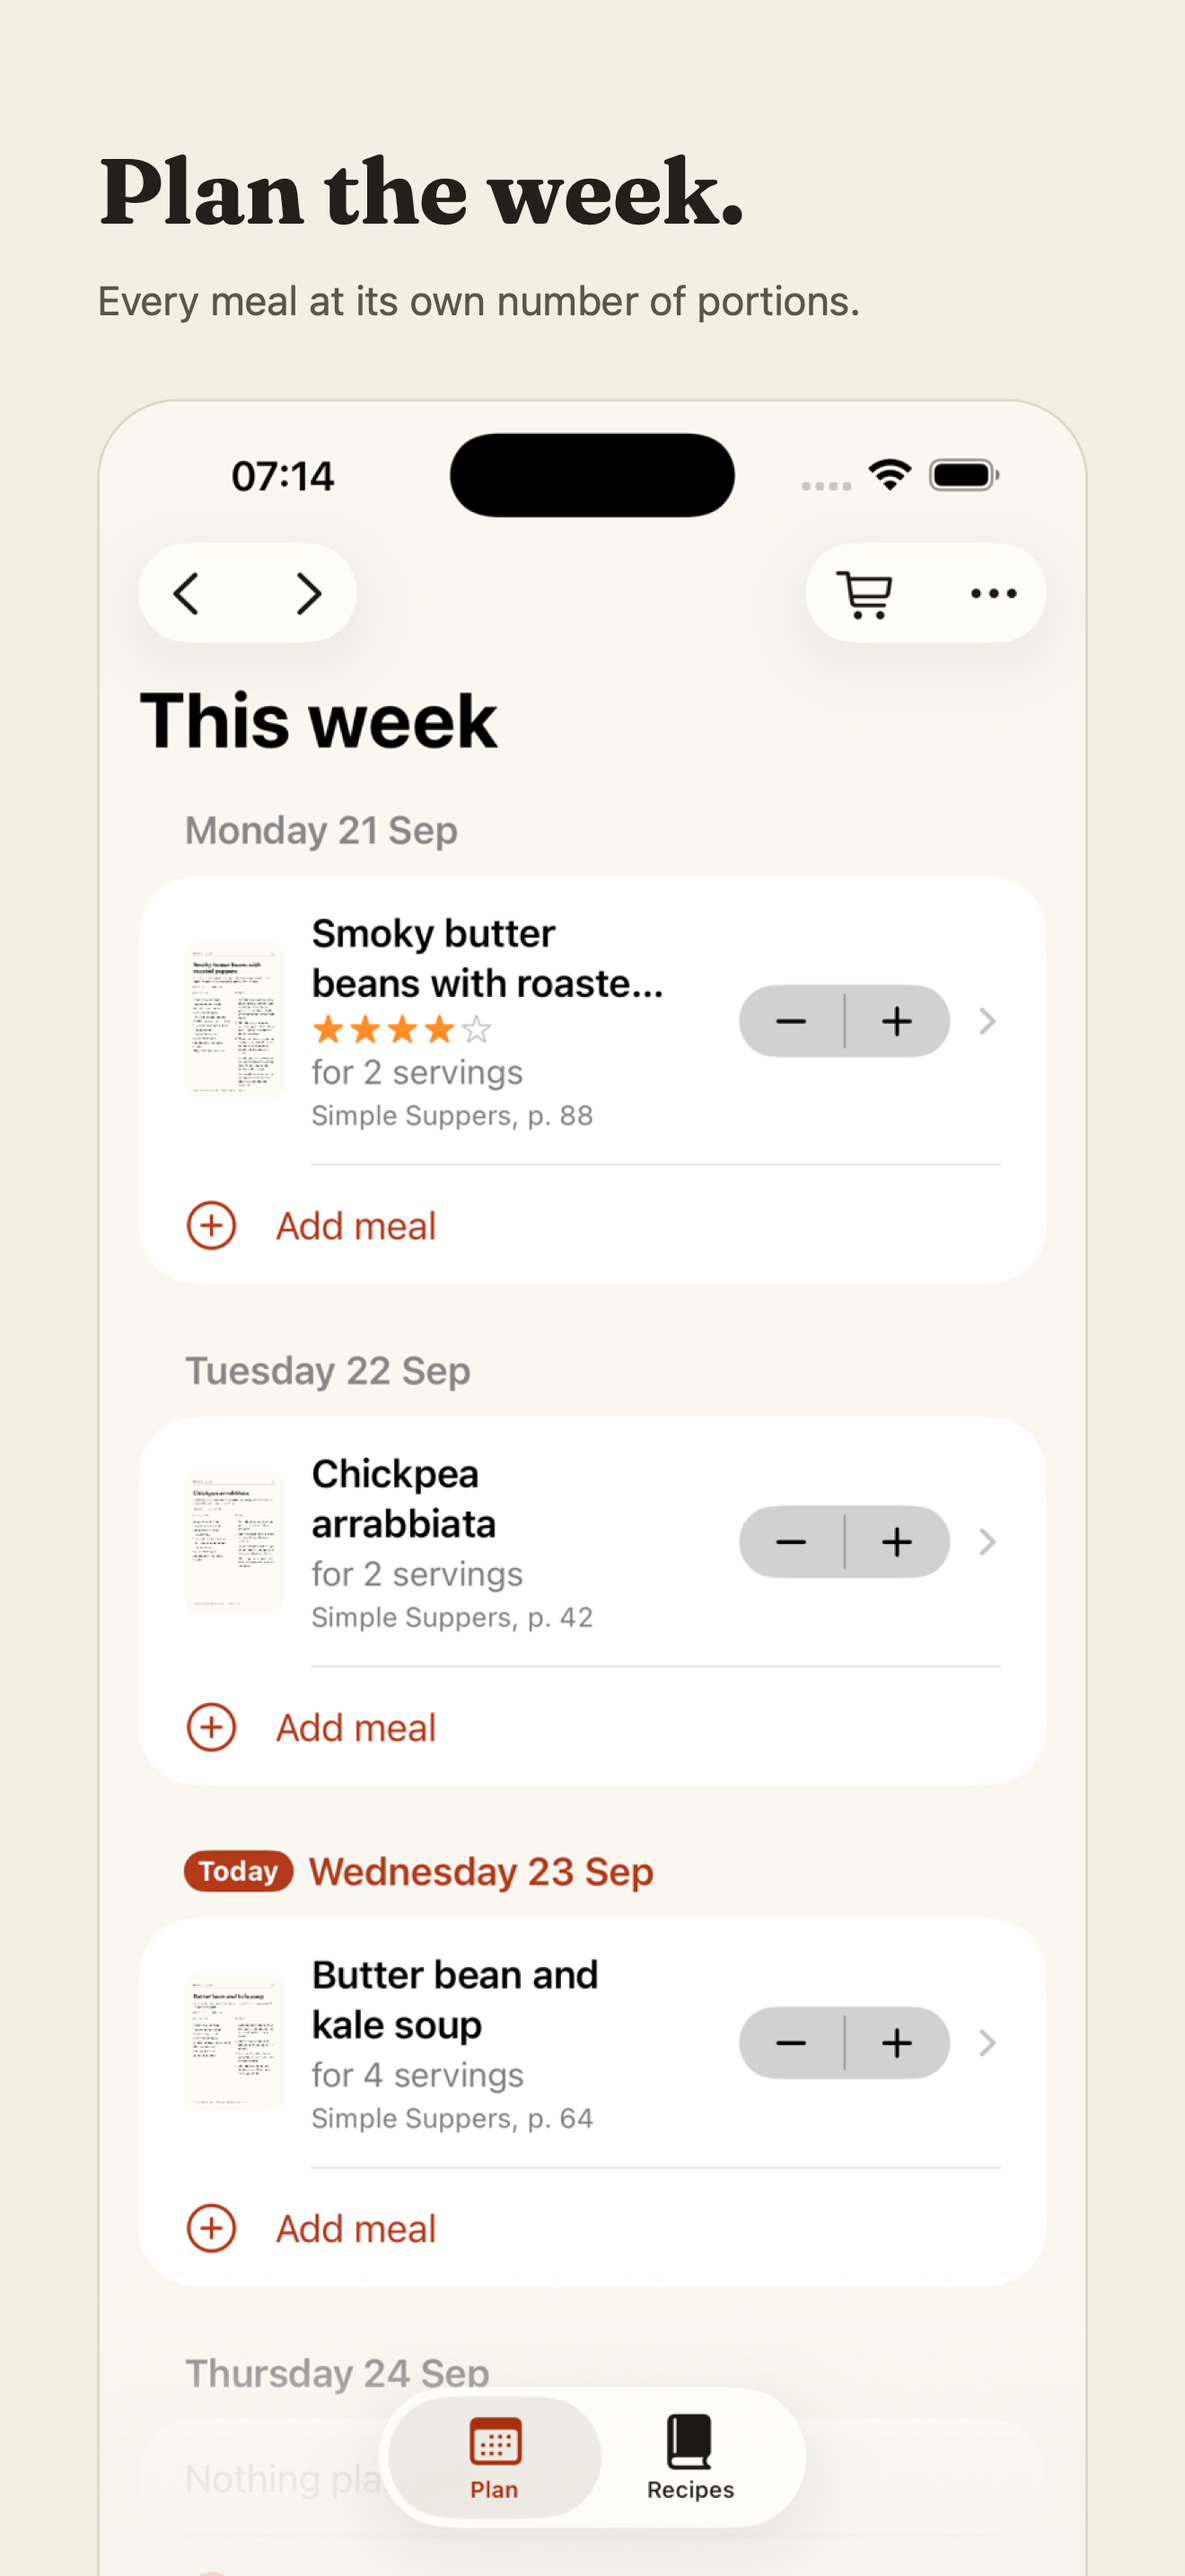
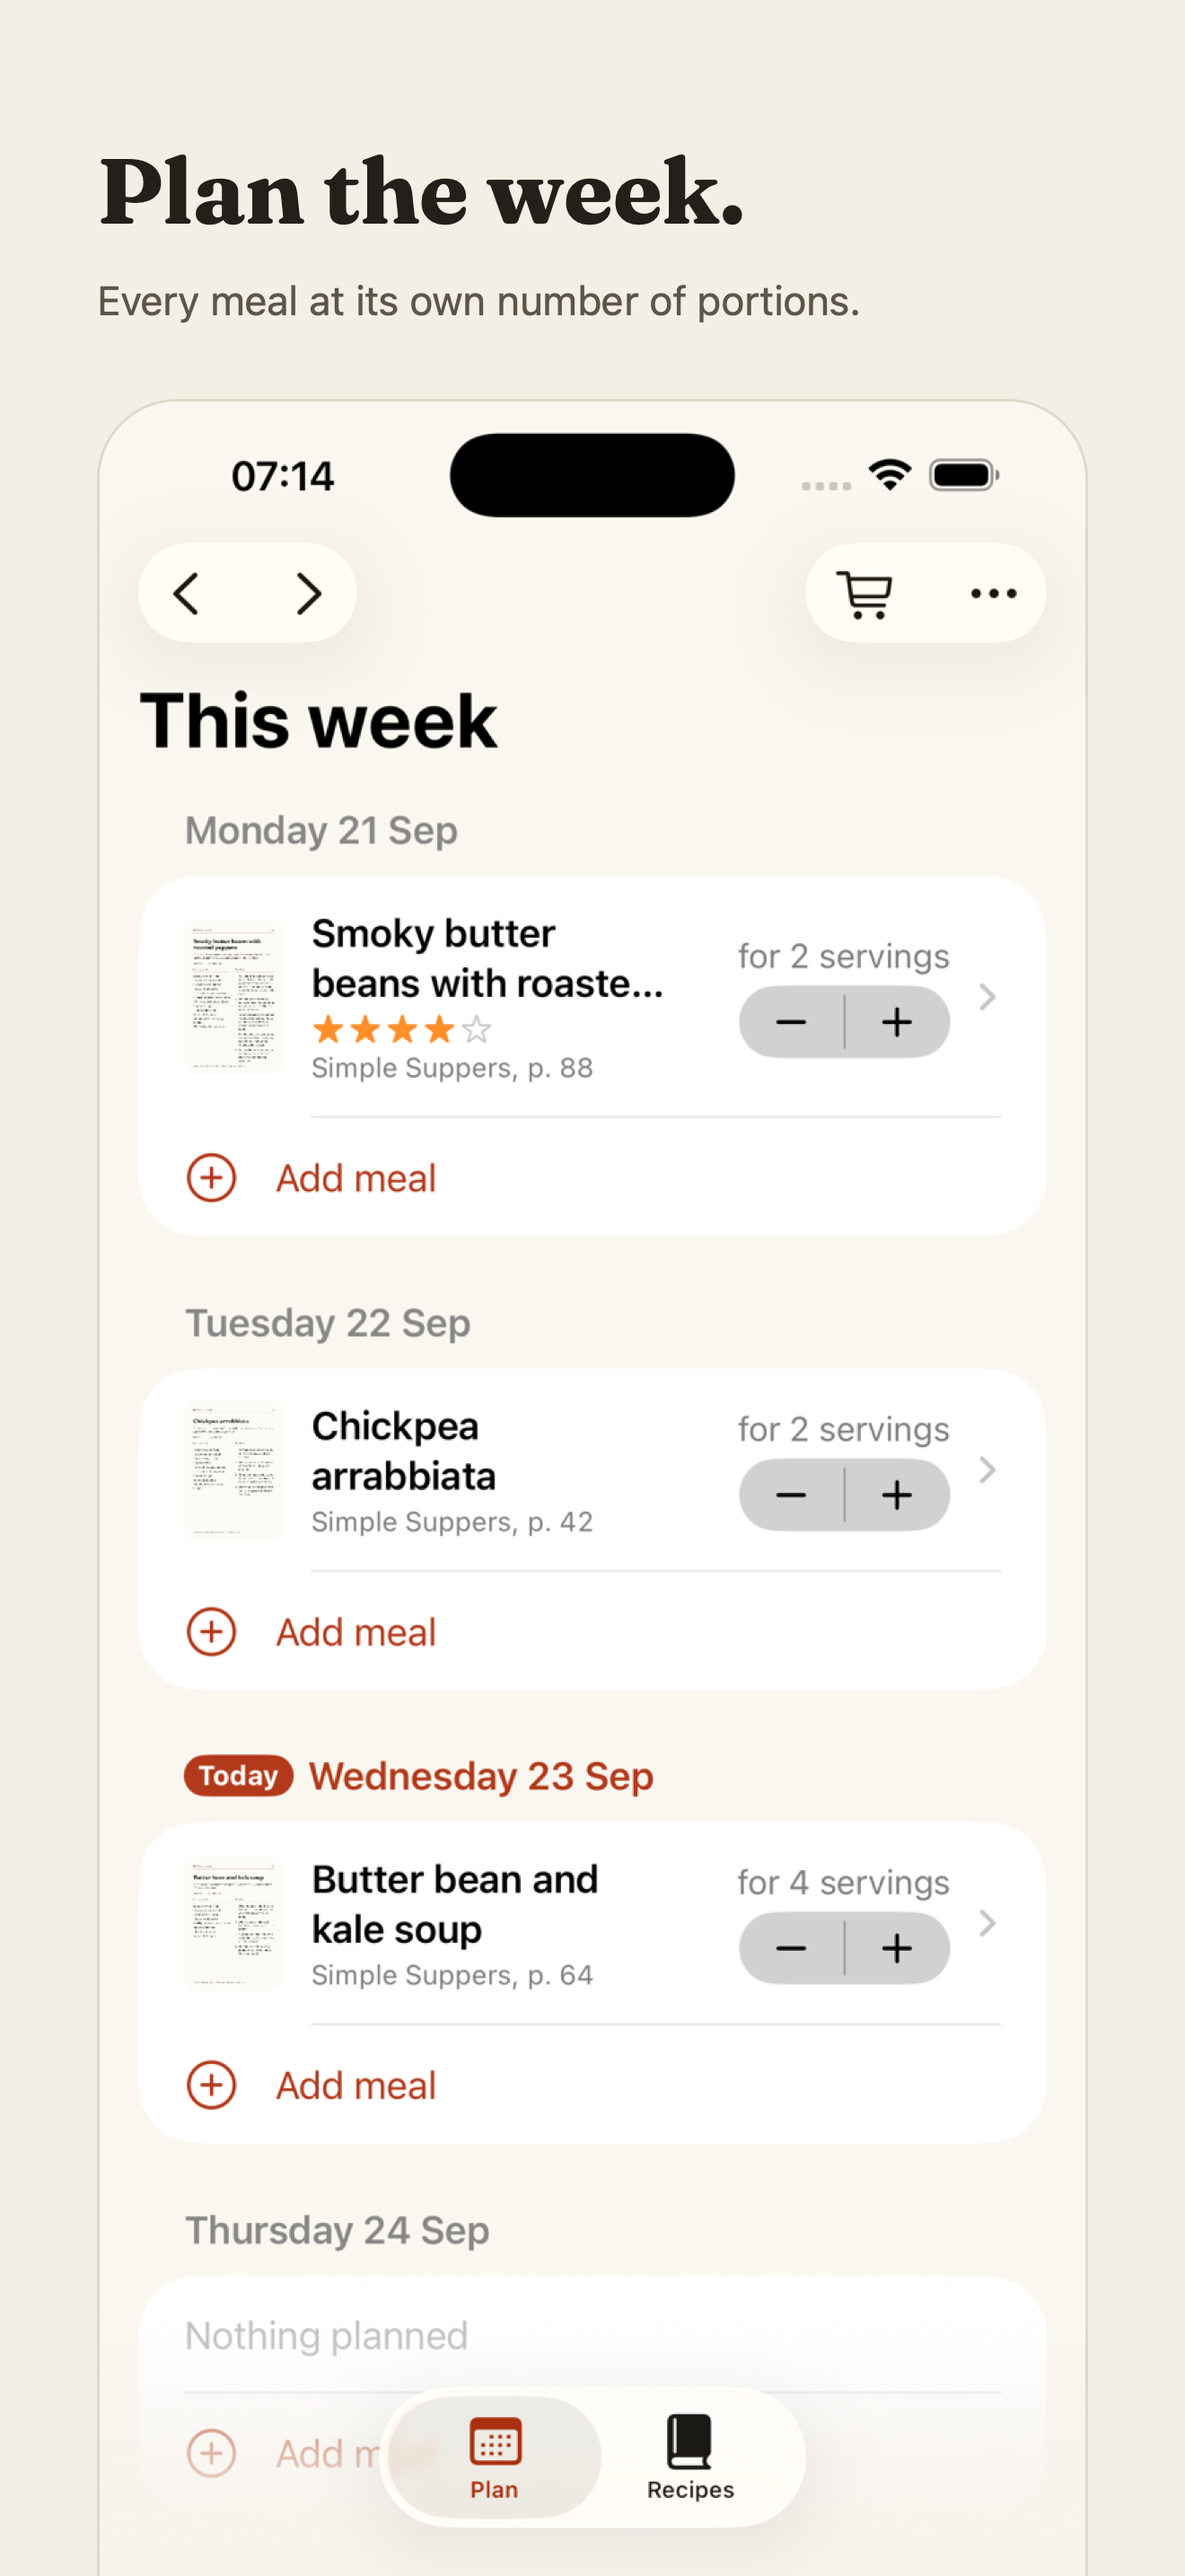
feat(ios): portions above the stepper on planned meal rows
Moving "for N servings" out of the left column and above the stepper
makes it read as one control and takes a line out of the tallest column:
cards go from 180pt to 159pt, about 13% shorter.

Side by side neither the portions nor the stepper can shrink, so at
accessibility text sizes they crushed the title to a few letters and the
thumbnail to a sliver. The row now switches to a two-row layout at those
sizes, which is also better than what was there before.

diff --git a/ios/RecipeBasket/Planner/PlannerView.swift b/ios/RecipeBasket/Planner/PlannerView.swift
@@ -174,48 +174,87 @@ private struct DayHeader: View {
 
 /// Thumbnail, title, rating if any, the meal's own portions (with a stepper), and where the recipe lives.
 struct PlannedMealRow: View {
+    @Environment(\.dynamicTypeSize) private var typeSize
+
     let meal: PlannedMeal
     let recipe: Recipe
     let onPortions: (Int) -> Void
 
     var body: some View {
-        HStack(spacing: 12) {
-            if let first = recipe.orderedPages.first, !first.isDeleted {
-                PageThumbnail(data: first.imageData)
-                    .frame(width: 44, height: 56)
-            } else {
-                RoundedRectangle(cornerRadius: 6)
-                    .fill(Color.secondary.opacity(0.2))
-                    .frame(width: 44, height: 56)
-            }
-            VStack(alignment: .leading, spacing: 3) {
-                Text(recipe.title)
-                    .font(.headline)
-                    .lineLimit(2)
-                if let rating = recipe.rating {
-                    RatingStars(rating: rating)
+        if typeSize.isAccessibilitySize {
+            // Side by side, the portions and the stepper cannot shrink, so they crush the title to a few
+            // letters. At these sizes the row becomes two rows instead.
+            VStack(alignment: .leading, spacing: 10) {
+                HStack(alignment: .top, spacing: 12) {
+                    thumbnail
+                    details
                 }
-                HStack(spacing: 4) {
-                    Text("for \(ShoppingExport.portionsText(targetYield: meal.portions, yieldUnit: recipe.yield.unit))")
-                    if meal.exportedAt != nil {
-                        Image(systemName: "checkmark.circle.fill")
-                            .foregroundStyle(.green)
-                            .accessibilityLabel("Added to Reminders")
-                    }
-                }
-                .font(.subheadline)
-                .foregroundStyle(.secondary)
-                if let source = recipe.sourceText {
-                    Text(source)
-                        .font(.caption)
-                        .foregroundStyle(.secondary)
-                        .lineLimit(1)
+                HStack(spacing: 12) {
+                    portions
+                    Spacer(minLength: 4)
+                    stepper
                 }
             }
-            Spacer(minLength: 4)
-            Stepper("Portions", value: Binding(get: { meal.portions }, set: { onPortions($0) }), in: Portions.range)
-                .labelsHidden()
+        } else {
+            HStack(spacing: 12) {
+                thumbnail
+                details
+                Spacer(minLength: 4)
+                // The portions sit above the stepper rather than in the left column: they read as one
+                // control, and it takes a line out of the tallest column, so every row is shorter.
+                VStack(alignment: .trailing, spacing: 4) {
+                    portions
+                    stepper
+                }
                 .fixedSize()
+            }
         }
+    }
+
+    @ViewBuilder private var thumbnail: some View {
+        if let first = recipe.orderedPages.first, !first.isDeleted {
+            PageThumbnail(data: first.imageData)
+                .frame(width: 44, height: 56)
+        } else {
+            RoundedRectangle(cornerRadius: 6)
+                .fill(Color.secondary.opacity(0.2))
+                .frame(width: 44, height: 56)
+        }
+    }
+
+    private var details: some View {
+        VStack(alignment: .leading, spacing: 3) {
+            Text(recipe.title)
+                .font(.headline)
+                .lineLimit(2)
+            if let rating = recipe.rating {
+                RatingStars(rating: rating)
+            }
+            if let source = recipe.sourceText {
+                Text(source)
+                    .font(.caption)
+                    .foregroundStyle(.secondary)
+                    .lineLimit(1)
+            }
+        }
+    }
+
+    private var portions: some View {
+        HStack(spacing: 4) {
+            Text("for \(ShoppingExport.portionsText(targetYield: meal.portions, yieldUnit: recipe.yield.unit))")
+                .lineLimit(1)
+            if meal.exportedAt != nil {
+                Image(systemName: "checkmark.circle.fill")
+                    .foregroundStyle(.green)
+                    .accessibilityLabel("Added to Reminders")
+            }
+        }
+        .font(.subheadline)
+        .foregroundStyle(.secondary)
+    }
+
+    private var stepper: some View {
+        Stepper("Portions", value: Binding(get: { meal.portions }, set: { onPortions($0) }), in: Portions.range)
+            .labelsHidden()
     }
 }

diff --git a/docs/DECISIONS.md b/docs/DECISIONS.md
@@ -331,3 +331,9 @@ Not built, and not next; recorded so it is not re-argued from scratch. Leon's ca
 - **`.listRowBackground` on a `List` is silently ignored** — it does not reach the rows. The first attempt set it there and dark mode came back with the system's #1C1C1E card on our #1A1713 ground, near-invisible. Rows keep their own system fill instead, which adapts on its own.
 - So the ground splits in two: **`Brand.paper`** for full-bleed brand surfaces (splash, welcome) stays #1A1713 in dark, and **`Brand.groupedPaper`** behind lists goes to **#0E0C0A**, dark enough that the system's card fill separates the way it does on stock iOS. The same split Apple makes between `systemBackground` and `systemGroupedBackground`.
 - All nine frames reshot. Light and dark both checked on device-sized simulators.
+
+### 2026-09-23 · Planned meal rows: portions above the stepper
+
+- Leon's call from looking at the screenshots: move "for N servings" out of the left column and put it above the +/− stepper. It reads as one control instead of a stray line, and it takes a line out of the *tallest* column, so the whole row shrinks. Measured: **180 → 159 pt** for a rated row, 163 → 142 pt otherwise, about 13% off every card.
+- **It broke at accessibility text sizes**, which is how the change earned its keep. Side by side, neither the portions text nor the stepper can shrink, so at `accessibility-large` they crushed the title to "Chi ck…" and the thumbnail to a sliver. The old layout was tight there too; the wider right column made it unusable.
+- `PlannedMealRow` now switches on `dynamicTypeSize.isAccessibilitySize`: two rows at accessibility sizes (thumbnail and details, then portions and stepper), side by side otherwise. The pieces are computed properties so both layouts share one definition. Checked at `large` and `accessibility-large`.
